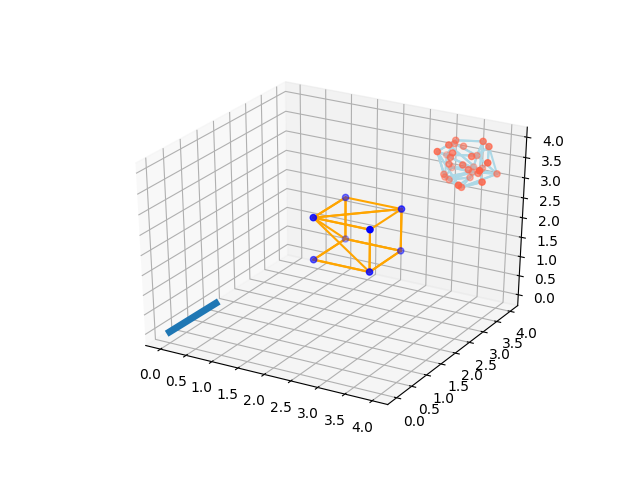
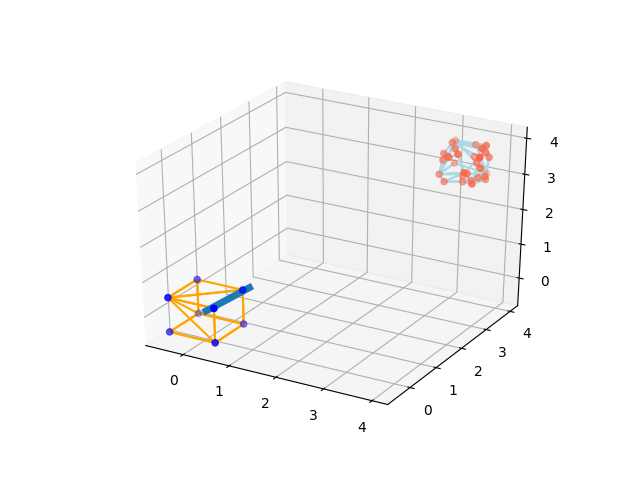
hessian matrix calculation

diff --git a/optimizer.py b/optimizer.py
@@ -2,11 +2,11 @@ import torch
 from convex_hulls import ConvexHulls
 import numpy as np
 import matplotlib.pyplot as plt
-from pprint import pprint
 
 # define pi in torch
 pi = torch.acos(torch.zeros(1)).item() * 2
 data_type = torch.double
+
 
 class BilevelOptimizer(object):
     def __init__(self, hull0: ConvexHulls, target: ConvexHulls):
@@ -30,6 +30,7 @@ class BilevelOptimizer(object):
         self._reset_rotation_matrix()
         self.d = self._initialize_d().requires_grad_(True)
         self.objectives = []
+        self.s = 1
 
     def reset_params(self):
         self.__init__(self.hull0, self.hull2)
@@ -61,7 +62,8 @@ class BilevelOptimizer(object):
         n = self.get_n(rotation_matrix, beta, phi)
         v1 = v0 + theta
         # using the parameters from the optimizer
-        objective = -gamma*torch.sum(torch.log(torch.matmul(v2, n) - d)) - gamma*torch.sum(torch.log(d - torch.matmul(v1, n)))
+        objective = -gamma * torch.sum(torch.log(torch.matmul(v2, n) - d)) - gamma * torch.sum(
+            torch.log(d - torch.matmul(v1, n)))
         objective += torch.norm(centroid0 + theta - centroid1)
         return objective
 
@@ -69,15 +71,15 @@ class BilevelOptimizer(object):
         result = self.obj()
         result.backward()
 
-        self.s=1.
+        self.s = 1.
         for i in range(niters):
             old_obj = result
             self.objectives.append(old_obj)
-            info='iter=%s obj0=%s '%(str(i+1),str(old_obj.detach().numpy()))
-            info+=self.print_grad()
+            info = 'iter=%s obj0=%s ' % (str(i + 1), str(old_obj.detach().numpy()))
+            # info += self.print_grad()
             self._get_tmp_params(self.s)
             result_temp = self.obj(mode='Temp')
-            
+
             # line search using Armijo Condition
             # Pre-calculation for Armijo condition, namely, the product of first order derivative and line searching
             grad = torch.tensor(
@@ -88,6 +90,9 @@ class BilevelOptimizer(object):
                  self.theta.grad[1],
                  self.theta.grad[2]],
                 dtype=data_type).reshape((1, -1))
+            hessian = self.hessian()
+            print((hessian[1][0]))
+            break
             line_searching_direction = grad.T
             while result_temp > old_obj - c1 * self.s * grad @ line_searching_direction or torch.isnan(result_temp):
                 self.s *= scale
@@ -98,30 +103,64 @@ class BilevelOptimizer(object):
             if self.s <= tol:
                 print("Step size is too small, line search terminated at armijo condition.")
                 break
-            info+=' s=%s'%str(self.s)
-            
-            #adopt line search
+            info += ' s=%s' % str(self.s)
+
+            # adopt line search
             self._update_params(self.s)
-            info+=self.print_params()
-            info+=self._reset_rotation_matrix()
+            info += self.print_params()
+            info += self._reset_rotation_matrix()
             result = self.obj()
             result.backward()
-            print(info)
+            if i % 1000 == 0:
+                print(info)
             if self._grad_norm() < tolg:
                 print("Converged")
                 break
-            self.s*=invscale
+            self.s *= invscale
 
-    def _reset_rotation_matrix(self, showInfo=False):
+    @staticmethod
+    def obj_fun_hessian(beta, phi, theta, d, rotation_matrix, v0, v2, centroid0, centroid1,
+                        gamma=torch.tensor(0.01, dtype=data_type)):
+        n = rotation_matrix @ (torch.stack([torch.cos(beta) * torch.cos(phi), torch.sin(beta) * torch.cos(phi),
+                                            torch.sin(phi)]).reshape(3, 1).requires_grad_(True))
+        v1 = v0 + theta
+        # using the parameters from the optimizer
+        objective = -gamma * torch.sum(torch.log(torch.matmul(v2, n) - d)) - gamma * torch.sum(
+            torch.log(d - torch.matmul(v1, n)))
+        objective += torch.norm(centroid0 + theta - centroid1)
+        return objective
+
+    def hessian(self):
+        beta, phi, theta, d, rotation_matrix, v0, v2, centroid0, centroid1 = self.get_params()
+        gamma = torch.tensor(0.01, dtype=data_type)
+        inputs = (beta, phi, theta, d, rotation_matrix, v0, v2, centroid0, centroid1, gamma)
+        # v0, v2 = self._get_vertices()
+        # params = torch.cat([self.beta, self.phi, self.theta, self.d]).requires_grad_(True)
+        hessian_matrix = torch.autograd.functional.hessian(self.obj_fun_hessian, inputs)
+        temp_hessian = []
+        for i in range(4):
+            two = torch.stack(hessian_matrix[i][:2]).reshape((2, 1))
+            three = torch.cat((two, hessian_matrix[i][2].reshape((3, 1))))
+            print(torch.cat((three, hessian_matrix[i][3].reshape((1, 1)))))
+
+        # objective = self.obj_fun(self.beta, self.phi, self.theta, self.d, self.rotation_matrix, v0, v2, self.centroid0,
+        #                          self.centroid2)
+        # jacobian_matrix = torch.autograd.grad(objective, params, create_graph=True, retain_graph=True)
+        # print(jacobian_matrix)
+        # hessian_matrix = torch.autograd.grad(jacobian_matrix, params)
+
+        return hessian_matrix[:4]
+
+    def _reset_rotation_matrix(self, show_info=False):
         # reset beta and phi and n
-        info=''
+        info = ''
         n = self.get_n(self.rotation_matrix, self.beta, self.phi)
-        if showInfo:
-            info+=(' n0=%s'%str(n.detach().numpy().T))
-            info+=(' beta=%s, phi=%s'%(str(self.beta.detach().numpy()),str(self.phi.detach().numpy())))
+        if show_info:
+            info += (' n0=%s' % str(n.detach().numpy().T))
+            info += (' beta=%s, phi=%s' % (str(self.beta.detach().numpy()), str(self.phi.detach().numpy())))
         rot_y_angle = -self.phi.detach()
         rot_z_angle = self.beta.detach()
-        #print('rot_y_angle = %s, rot_z_angle = %s'%(rot_y_angle.detach().numpy(),rot_z_angle.detach().numpy()))
+        # print('rot_y_angle = %s, rot_z_angle = %s'%(rot_y_angle.detach().numpy(),rot_z_angle.detach().numpy()))
         rot_y = torch.tensor([[torch.cos(rot_y_angle), 0, torch.sin(rot_y_angle)],
                               [0, 1, 0],
                               [-torch.sin(rot_y_angle), 0, torch.cos(rot_y_angle)]
@@ -134,16 +173,13 @@ class BilevelOptimizer(object):
         self.phi.data.zero_()
         self.rotation_matrix @= rot_z @ rot_y
         n = self.get_n(self.rotation_matrix, self.beta, self.phi)
-        if showInfo:
-            info+=(' beta=%s, phi=%s'%(str(self.beta.detach().numpy()),str(self.phi.detach().numpy())))
-            info+=(' n1=%s'%str(n.detach().numpy().T))
-        # return rot_z @ rot_y
+        if show_info:
+            info += (' beta=%s, phi=%s' % (str(self.beta.detach().numpy()), str(self.phi.detach().numpy())))
+            info += (' n1=%s' % str(n.detach().numpy().T))
         return info
 
     @staticmethod
     def get_n(rotation_matrix, beta, phi) -> torch.tensor:
-        # print('N VALUE', torch.stack([torch.cos(beta) * torch.cos(phi), torch.sin(beta) * torch.cos(phi),
-        #                               torch.sin(phi)]).reshape(3, 1))
         return rotation_matrix @ (torch.stack([torch.cos(beta) * torch.cos(phi), torch.sin(beta) * torch.cos(phi),
                                                torch.sin(phi)]).reshape(3, 1).requires_grad_(True))
 
@@ -195,30 +231,30 @@ class BilevelOptimizer(object):
         return d.detach().clone()
 
     def _grad_norm(self):
-        ret=0.
-        ret+=np.linalg.norm(self.beta.grad.detach().numpy())
-        ret+=np.linalg.norm(self.phi.grad.detach().numpy())
-        ret+=np.linalg.norm(self.theta.grad.detach().numpy())
-        ret+=np.linalg.norm(self.d.grad.detach().numpy())
+        ret = 0.
+        ret += np.linalg.norm(self.beta.grad.detach().numpy())
+        ret += np.linalg.norm(self.phi.grad.detach().numpy())
+        ret += np.linalg.norm(self.theta.grad.detach().numpy())
+        ret += np.linalg.norm(self.d.grad.detach().numpy())
         return ret
 
     def print_grad(self):
-        info= (' beta.grad=%s'%str(self.beta.grad.detach().numpy()))
-        info+=(' phi.grad=%s'%str(self.phi.grad.detach().numpy()))
-        info+=(' theta.grad=%s'%str(self.theta.grad.detach().numpy()))
-        info+=(' d.grad=%s'%str(self.d.grad.detach().numpy()))
+        info = (' beta.grad=%s' % str(self.beta.grad.detach().numpy()))
+        info += (' phi.grad=%s' % str(self.phi.grad.detach().numpy()))
+        info += (' theta.grad=%s' % str(self.theta.grad.detach().numpy()))
+        info += (' d.grad=%s' % str(self.d.grad.detach().numpy()))
         return info
 
     def print_params(self):
-        info= (' beta=%s'%str(self.beta.detach().numpy()))
-        info+=(' phi=%s'%str(self.phi.detach().numpy()))
-        info+=(' theta=%s'%str(self.theta.detach().numpy()))
-        info+=(' d=%s'%str(self.d.detach().numpy()))
+        info = (' beta=%s' % str(self.beta.detach().numpy()))
+        info += (' phi=%s' % str(self.phi.detach().numpy()))
+        info += (' theta=%s' % str(self.theta.detach().numpy()))
+        info += (' d=%s' % str(self.d.detach().numpy()))
         return info
 
     def get_params(self):
         v0, v2 = self._get_vertices()
-        return self.beta, self.phi, self.theta, self.d, v0, v2, self.centroid0, self.centroid2
+        return self.beta, self.phi, self.theta, self.d, self.rotation_matrix, v0, v2, self.centroid0, self.centroid2
 
     def plot_objective(self):
         fig = plt.figure()

diff --git a/plotting.py b/plotting.py
@@ -1,57 +1,31 @@
 import plotly.graph_objects as go
 import torch
-import torch.nn as nn
-from pprint import pprint
-import matplotlib.pyplot as plt
-from mpl_toolkits.mplot3d import Axes3D
 from convex_hulls import ConvexHulls
 import numpy as np
 
 pi = torch.acos(torch.zeros(1)).item() * 2
 
-if __name__ == '__main__':
-    points1 = np.random.rand(30, 3)
-    points2 = np.random.rand(30, 3) + 3
+
+def plotting(points1, points2):
     hull1 = ConvexHulls(points1)
     hull2 = ConvexHulls(points2)
 
-    dist, x1, x2 = hull1.distance_between_convex_hulls(hull2)
-    optimal_dots = np.array([x1, x2])
-    print(dist, x1, x2)
-    fig = plt.figure()
-    ax = fig.add_subplot(111, projection='3d')
-    ax.scatter3D(points1[:, 0], points1[:, 1], points1[:, 2], c='blue')
-    for simplex1 in hull1.simplices:
-        ax.plot3D(points1[simplex1, 0], points1[simplex1, 1], points1[simplex1, 2], 'orange')
+    # dist, x1, x2 = hull1.distance_between_convex_hulls(hull2)
+    # optimal_dots = np.array([x1, x2])
+    # print(dist, x1, x2)
 
-    ax.scatter3D(points2[:, 0], points2[:, 1], points2[:, 2], c='red')
-    for simplex2 in hull2.simplices:
-        ax.plot3D(points2[simplex2, 0], points2[simplex2, 1], points2[simplex2, 2], 'green')
-
-    fig.show()
-
-    simplex1 = hull1.simplices
     simplex2 = hull2.simplices
     fig = go.Figure()
-    for i in range(simplex1.shape[0]):
-        if i == 0:
-            fig.add_trace(go.Mesh3d(x=points1[simplex1[i], 0],
-                                    y=points1[simplex1[i], 1],
-                                    z=points1[simplex1[i], 2],
-                                    color='lightpink',
-                                    opacity=0.5,
-                                    legendgroup='Convex Hull1',
-                                    name='Convex Hull1',
-                                    showlegend=True))
-        else:
-            fig.add_trace(go.Mesh3d(x=points1[simplex1[i], 0],
-                                    y=points1[simplex1[i], 1],
-                                    z=points1[simplex1[i], 2],
-                                    color='lightpink',
-                                    opacity=0.5,
-                                    legendgroup='Convex Hull1',
-                                    name='Convex Hull1',
-                                    showlegend=False))
+
+    fig.add_trace(go.Mesh3d(x=points1[:, 0],
+                            y=points1[:, 1],
+                            z=points1[:, 2],
+                            color='lightpink',
+                            opacity=0.5,
+                            legendgroup='Convex Hull1',
+                            name='Convex Hull1',
+                            alphahull=0,
+                            showlegend=True))
 
     for i in range(simplex2.shape[0]):
         if i == 0:
@@ -73,17 +47,22 @@ if __name__ == '__main__':
                                     name='Convex Hull2',
                                     showlegend=False))
 
-    fig.add_trace(go.Scatter3d(x=optimal_dots[:, 0],
-                               y=optimal_dots[:, 1],
-                               z=optimal_dots[:, 2],
-                               marker=dict(size=4,
-                                           color='tomato',
-                                           symbol='diamond'),
-                               line=dict(color='tomato',
-                                         width=4),
-                               legendgroup="Smallest Distance",
-                               name="Smallest Distance"))
+    # fig.add_trace(go.Scatter3d(x=optimal_dots[:, 0],
+    #                            y=optimal_dots[:, 1],
+    #                            z=optimal_dots[:, 2],
+    #                            marker=dict(size=4,
+    #                                        color='tomato',
+    #                                        symbol='diamond'),
+    #                            line=dict(color='tomato',
+    #                                      width=4),
+    #                            legendgroup="Smallest Distance",
+    #                            name="Smallest Distance"))
     fig.update_layout(scene_camera=dict(eye=dict(x=1.2, y=-1.6, z=1.0)),
                       margin=dict(t=0, r=10, l=10, b=10),
-                      legend=dict(x=0.6, y=1))
+                      legend=dict(x=0.6, y=1),
+                      scene=dict(xaxis=dict(range=[0, 4]),
+                                 yaxis=dict(range=[0, 4]),
+                                 zaxis=dict(range=[0, 4])),
+                      scene_aspectmode='cube'
+                      )
     fig.show(renderer='browser')

diff --git a/test.py b/test.py
@@ -7,6 +7,8 @@ from convex_hulls import ConvexHulls
 from optimizer import BilevelOptimizer
 from torch import cos, sin
 import numpy as np
+from plotting import plotting
+import plotly.graph_objects as go
 
 pi = torch.acos(torch.zeros(1, dtype=torch.double)) * 2
 
@@ -23,6 +25,7 @@ if __name__ == '__main__':
     center = np.zeros((8, 3))
 
     hull0 = ConvexHulls(cube)
+
     points2 = np.random.rand(30, 3) + 3
     hull2 = ConvexHulls(points2)
 
@@ -30,24 +33,25 @@ if __name__ == '__main__':
     inputs = optimizer.get_params()
 
     n = optimizer.get_n(optimizer.rotation_matrix, optimizer.beta, optimizer.phi).detach().numpy()
-    optimizer.optimize(niters = 10000)
-    optimizer.plot_objective()
+    optimizer.optimize(niters=1)
+    # optimizer.plot_objective()
+    #
+    # cube += optimizer.theta.detach().numpy()
+    # hull = ConvexHulls(cube)
+    # fig = plt.figure()
+    # ax = fig.add_subplot(111, projection='3d')
+    # ax.scatter3D(cube[:, 0], cube[:, 1], cube[:, 2], c='blue')
+    # for simplex1 in hull.simplices:
+    #     ax.plot3D(cube[simplex1, 0], cube[simplex1, 1], cube[simplex1, 2], 'orange')
+    #
+    # ax.scatter3D(points2[:, 0], points2[:, 1], points2[:, 2], c='tomato')
+    # for simplex2 in hull2.simplices:
+    #     ax.plot3D(points2[simplex2, 0], points2[simplex2, 1], points2[simplex2, 2], 'lightblue')
+    #
+    # direction = np.concatenate((np.array([0, 0, 0]).reshape((3, 1)), n), axis=1)
+    # ax.plot3D(direction[0, :], direction[1, :], direction[2, :], lw=5)
+    # fig.savefig('plot.png')
+    # fig.show()
 
-    cube += optimizer.theta.detach().numpy()
-    hull = ConvexHulls(cube)
-    fig = plt.figure()
-    ax = fig.add_subplot(111, projection='3d')
-    ax.scatter3D(cube[:, 0], cube[:, 1], cube[:, 2], c='blue')
-    for simplex1 in hull.simplices:
-        ax.plot3D(cube[simplex1, 0], cube[simplex1, 1], cube[simplex1, 2], 'orange')
+    # plotting(cube, hull2.points)
 
-    points2 = np.random.rand(30, 3) + 3
-    hull2 = ConvexHulls(points2)
-    ax.scatter3D(points2[:, 0], points2[:, 1], points2[:, 2], c='tomato')
-    for simplex2 in hull2.simplices:
-        ax.plot3D(points2[simplex2, 0], points2[simplex2, 1], points2[simplex2, 2], 'lightblue')
-
-    direction = np.concatenate((np.array([0, 0, 0]).reshape((3, 1)), n), axis=1)
-    ax.plot3D(direction[0, :], direction[1, :], direction[2, :], lw=5)
-    fig.savefig('plot.png')
-    fig.show()
